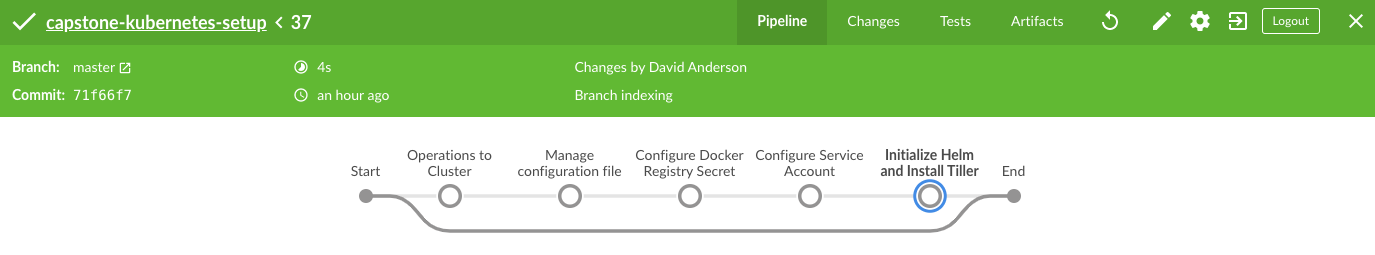
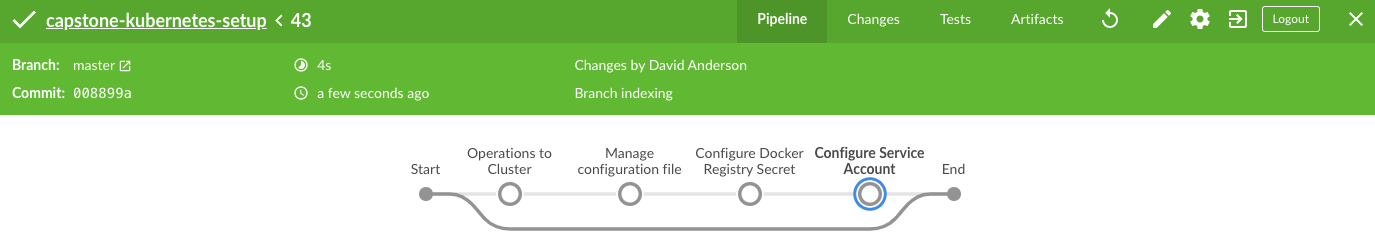
chore: Remove Helm dependency to deploy

diff --git a/docs/how-to-run-in-aws.md b/docs/how-to-run-in-aws.md
@@ -4,7 +4,6 @@ You can run this project using AWS EKS.
 
 * [AWS CLI 1.16.193+](https://aws.amazon.com/cli/), is a unified tool to manage your AWS services
 * [eksctl](https://github.com/weaveworks/eksctl), is a simple CLI tool for creating clusters on EKS - Amazon's new managed Kubernetes service for EC2
-* [Helm](https://helm.sh/), package manager to Kubernetes
 * [kubectl](https://kubernetes.io/docs/tasks/tools/install-kubectl/), command-line tool, allows you to run commands against Kubernetes clusters
 * S3 Bucket, store cluster configurations files, secrets files and configuration maps
 
@@ -16,9 +15,7 @@ First, you can running the script `./aws/devops_create.sh capstone us-west-2`. T
 
 Second, you need to save the file `~/.kube/config` for your S3 Bucket.
 
-Third, you need to configure a service account for your pods, running the script `./devops_service_account.sh capstone`.
-
-Finally, you need to configure the Helm, running the script `./devops_helm.sh`.
+Finally, you need to configure a service account for your pods, running the script `./devops_service_account.sh capstone`.
 
 ### How to configure Docker registry
 

diff --git a/docs/how-to-run-in-minikube.md b/docs/how-to-run-in-minikube.md
@@ -4,7 +4,6 @@ You can run this project using Minikube.
 
 * [AWS CLI 1.16.193+](https://aws.amazon.com/cli/), is a unified tool to manage your AWS services
 * [Minikube](https://kubernetes.io/docs/tasks/tools/install-minikube/), minikube implements a local Kubernetes cluster on macOS, Linux, and Windows
-* [Helm](https://helm.sh/), package manager to Kubernetes
 * [kubectl](https://kubernetes.io/docs/tasks/tools/install-kubectl/), command-line tool, allows you to run commands against Kubernetes clusters
 
 Configure these tool to continue.
@@ -26,6 +25,4 @@ kubectl create secret docker-registry capstone-docker-registry-secret \
     --docker-email=DOCKER-EMAIL
 ```
 
-Third, you need to configure a service account for your pods, running the script `./devops_service_account.sh capstone`.
-
-Finally, you need to configure the Helm, running the script `./devops_helm.sh`.
+Finally, you need to configure a service account for your pods, running the script `./devops_service_account.sh capstone`.
